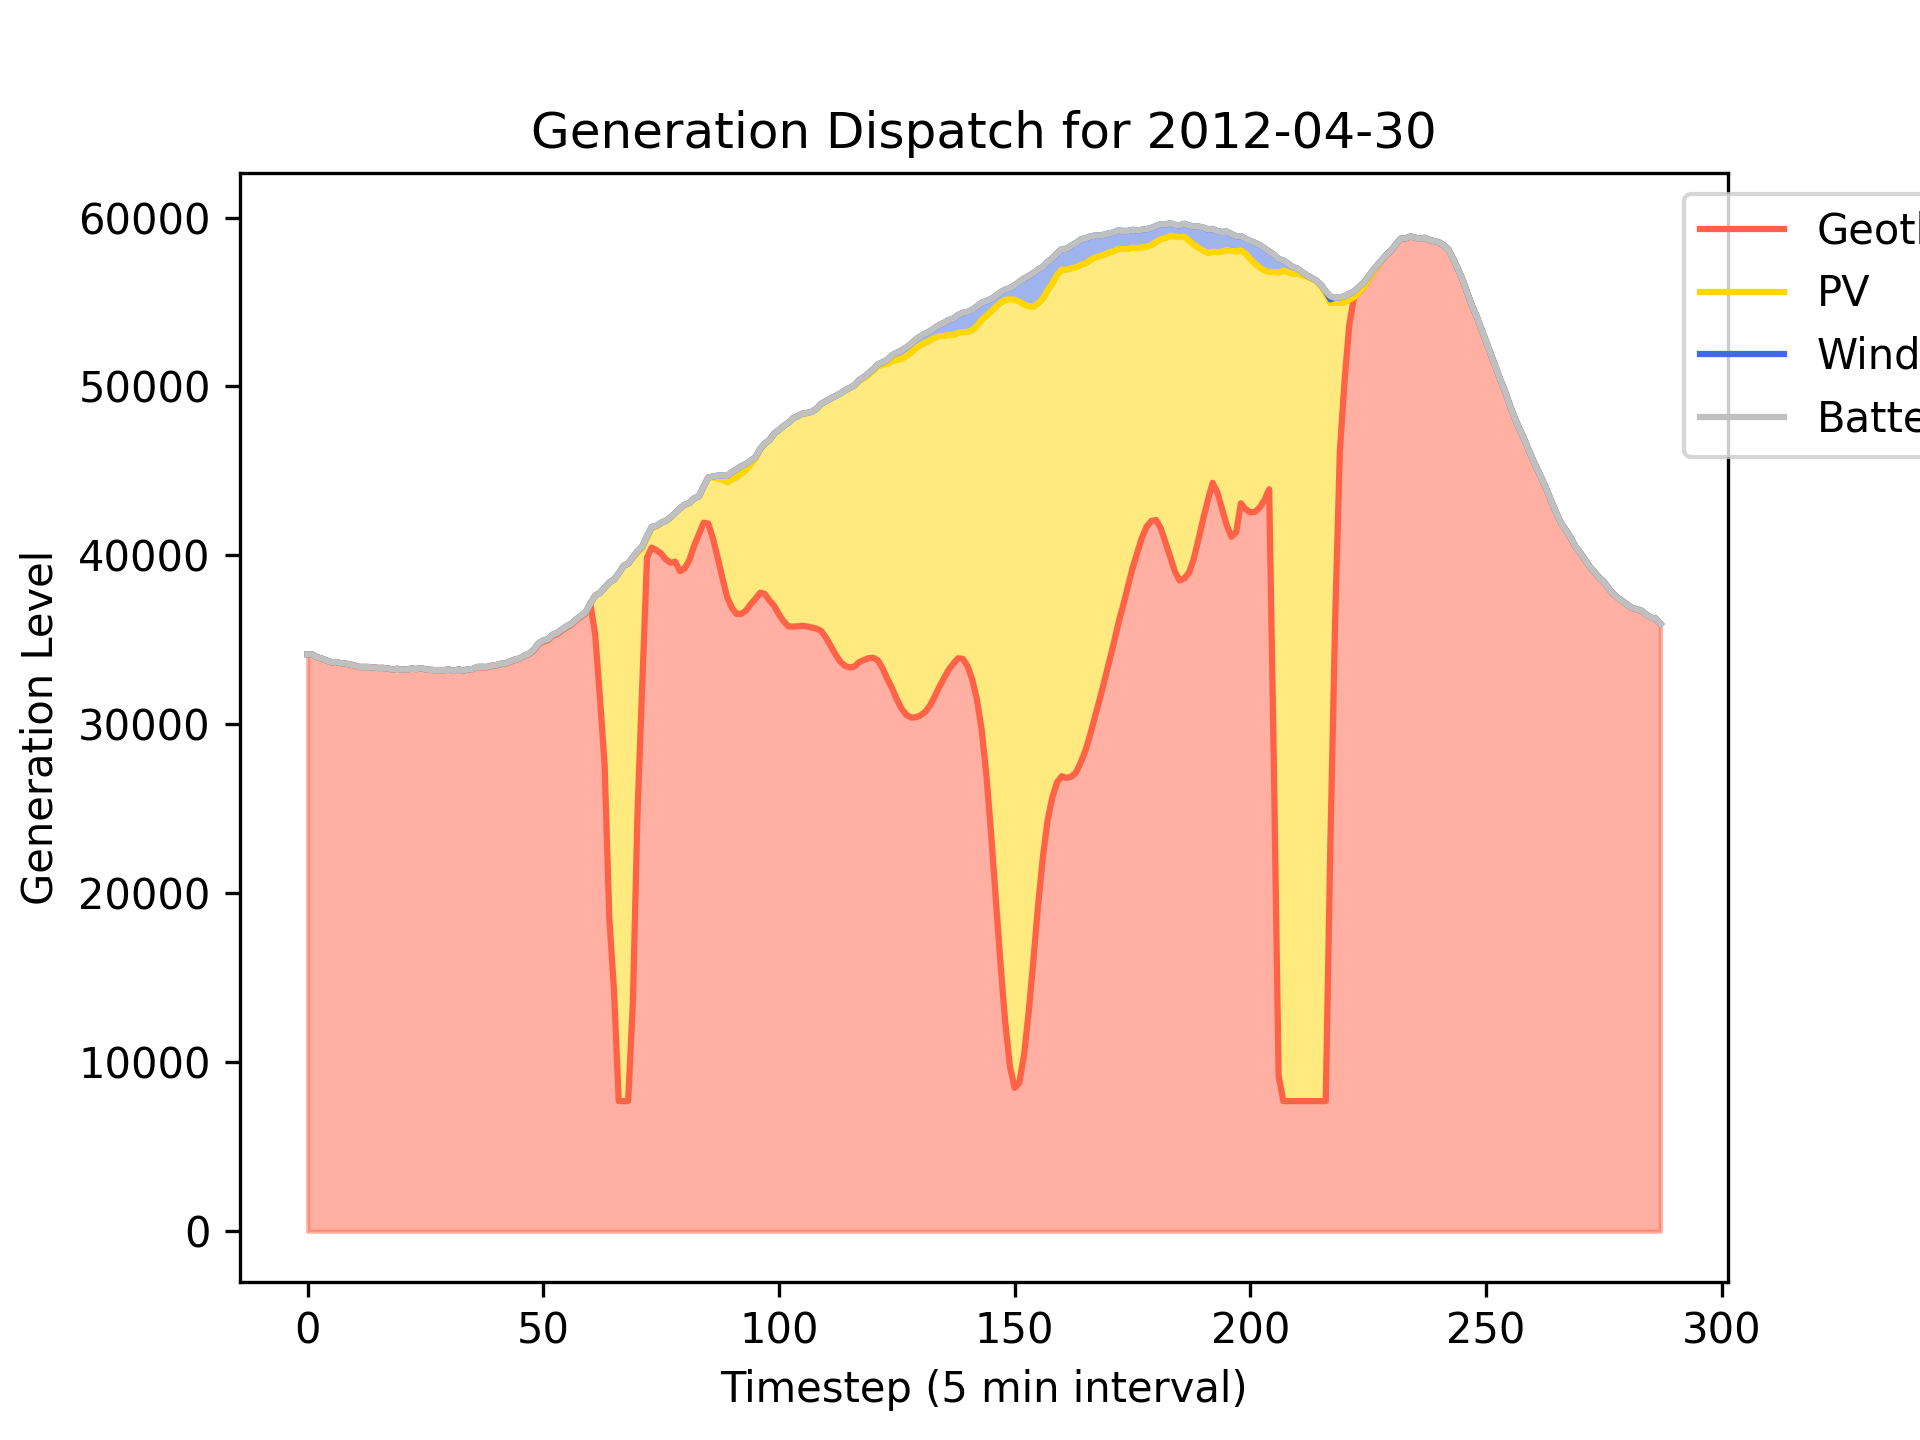
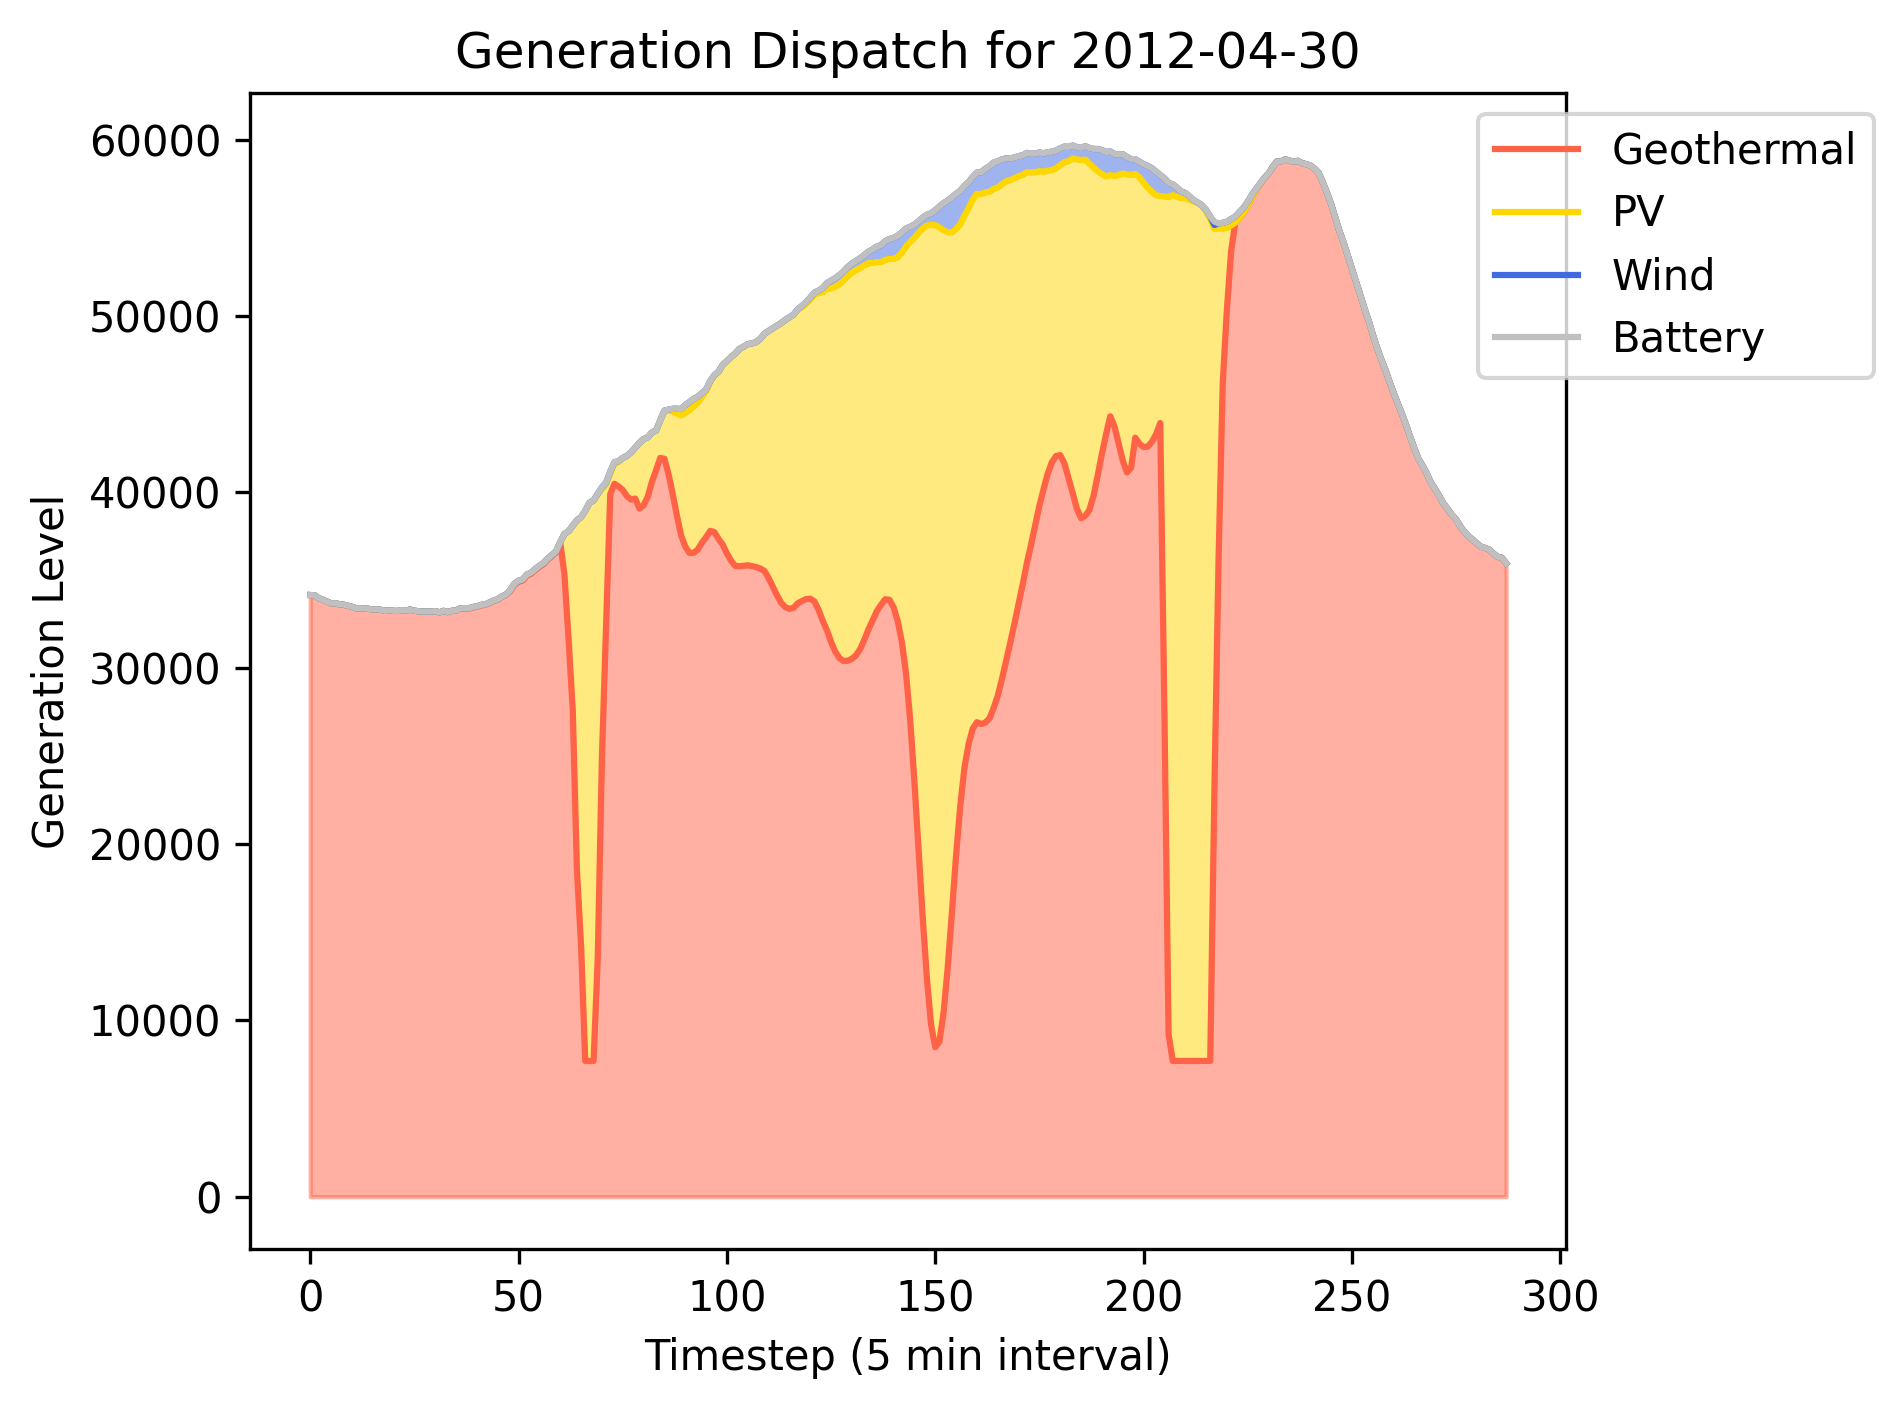
Prevent legend from getting cut off

Changed region(s): [[0.0, 0.0, 1.0, 0.9993], [0.8681, 0.8744, 0.9301, 0.9368]]

diff --git a/test_case_metrics.py b/test_case_metrics.py
@@ -295,8 +295,9 @@ def plot_dispatch_stack(generation_stack, gen_sources, file_pth, day_name):
     plt.ylabel('Generation Level')
     plt.title(f'Generation Dispatch for {day_name}')
     plt.legend(bbox_to_anchor=(1.25, 1.0))
+    plt.tight_layout()
     # save figure
-    plt.savefig(os.path.join(file_pth, f'{day_name}_dispatch_stack.png'), dpi=300, format='png')
+    plt.savefig(os.path.join(file_pth, f'{day_name}_dispatch_stack.png'), dpi=300, format='png', bbox_inches='tight')
 
 def add_geothermal_timeseries(test_case, gen_sources, geo_mw = GEOTHERMAL_NAMEPLATE_MW, geo_cf = GEOTHERMAL_CAPACITY_FACTOR):
     # TO-DO: FIND OUT WHY THIS SEEMS TO ONLY BE WORKING FOR RAMPING DOWN
